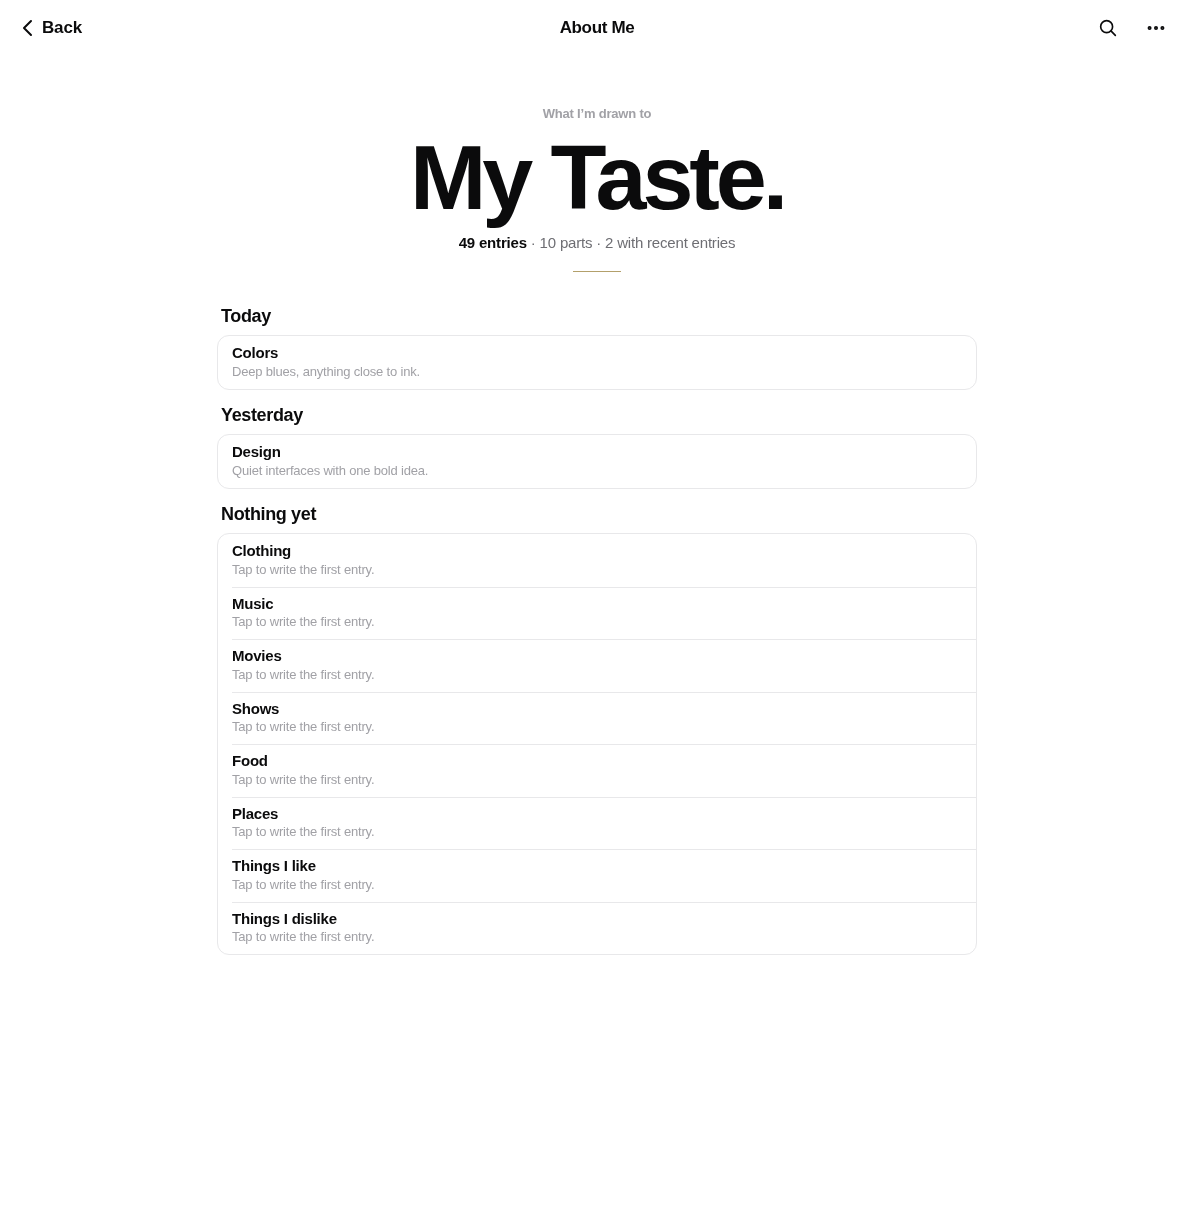
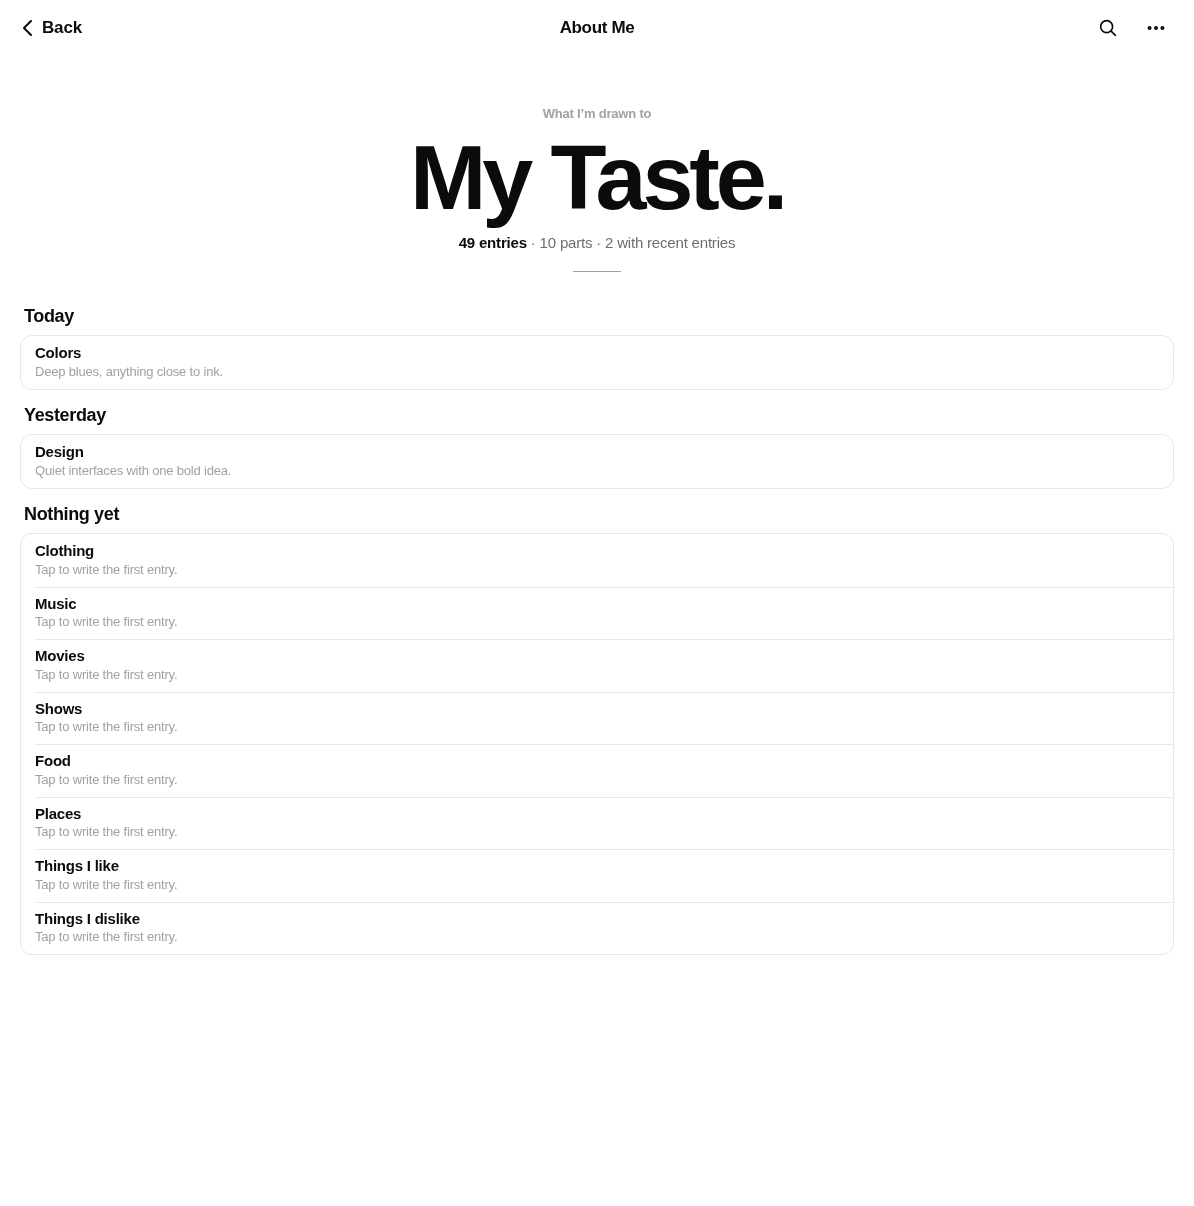
Run section lists across the full screen width
Claude-Session: https://claude.ai/code/session_01B2jaZ1SNYJtGLSRg6z58ic

diff --git a/index.html b/index.html
@@ -192,8 +192,10 @@ p { margin: 0; }
 /* ── Chapter page: same one-screen composition ───────── */
 .statement .eyebrow { font: 600 13px/1.2 var(--sans); color: var(--faint); }
 /* Topics as a Notes-style list: date groups, rounded card, three-line rows */
-.notes { width: 100%; max-width: 760px; justify-self: center; }
-.chapter-page { gap: clamp(28px, 4vh, 48px); padding-block: clamp(32px, 6vh, 72px) 96px; }
+.notes { width: 100%; }
+/* Section pages use the full width of the screen */
+.home.chapter-page { max-width: none; gap: clamp(28px, 4vh, 48px); padding-block: clamp(32px, 6vh, 72px) 96px; }
+html:not(.fit) .main { padding-inline: max(20px, env(safe-area-inset-left, 0px)) max(20px, env(safe-area-inset-right, 0px)); }
 .ngroup { margin-bottom: clamp(12px, 1.8vh, 22px); }
 .ngroup h2 { break-after: avoid; font: 700 clamp(18px, 1.9vh, 22px)/1.2 var(--sans); letter-spacing: -.02em; margin: 0 0 8px 4px; }
 .ncard { border: 1px solid var(--rule); border-radius: 12px; background: var(--bg); -webkit-box-decoration-break: clone; box-decoration-break: clone; }

diff --git a/DESIGN.md b/DESIGN.md
@@ -51,7 +51,7 @@ Right Now has its own page (`#now`): the statement **Right now.**, then the four
 They use the same composition as home, so every page feels like the same book:
 
 1. **Opening**: the tagline in small grey ("What I'm drawn to"), the chapter title as the statement (**My Taste.**), then "49 entries · 10 parts · 2 with recent entries" and the gold hairline.
-2. **Topics, as one straight Notes-style list that scrolls**: grouped by when you last wrote in them (**Today**, **Yesterday**, **Earlier**, **Nothing yet**), each group a rounded card with hairline separators. Every row is two lines: the topic in bold, then one grey line (the latest entry, the topic's description, or "Tap to write the first entry."). No times, folder labels or tiles.
+2. **Topics, as one straight Notes-style list that scrolls**: grouped by when you last wrote in them (**Today**, **Yesterday**, **Earlier**, **Nothing yet**), each group a rounded card with hairline separators. Every row is two lines: the topic in bold, then one grey line (the latest entry, the topic's description, or "Tap to write the first entry."). No times, folder labels or tiles. The list spans the full width of the screen, with a 20pt margin (or the safe-area inset) on each side.
 3. **No What changed.** It appears only on the home screen. Section pages show just their title and parts, full width, in both orientations.
 
 Verified with no overflow on all 9 chapters, Right Now and home at 1200×1600, 1600×1200, iPad mini, 11" and 13" in both orientations, and a 1000×744 split-view window.
